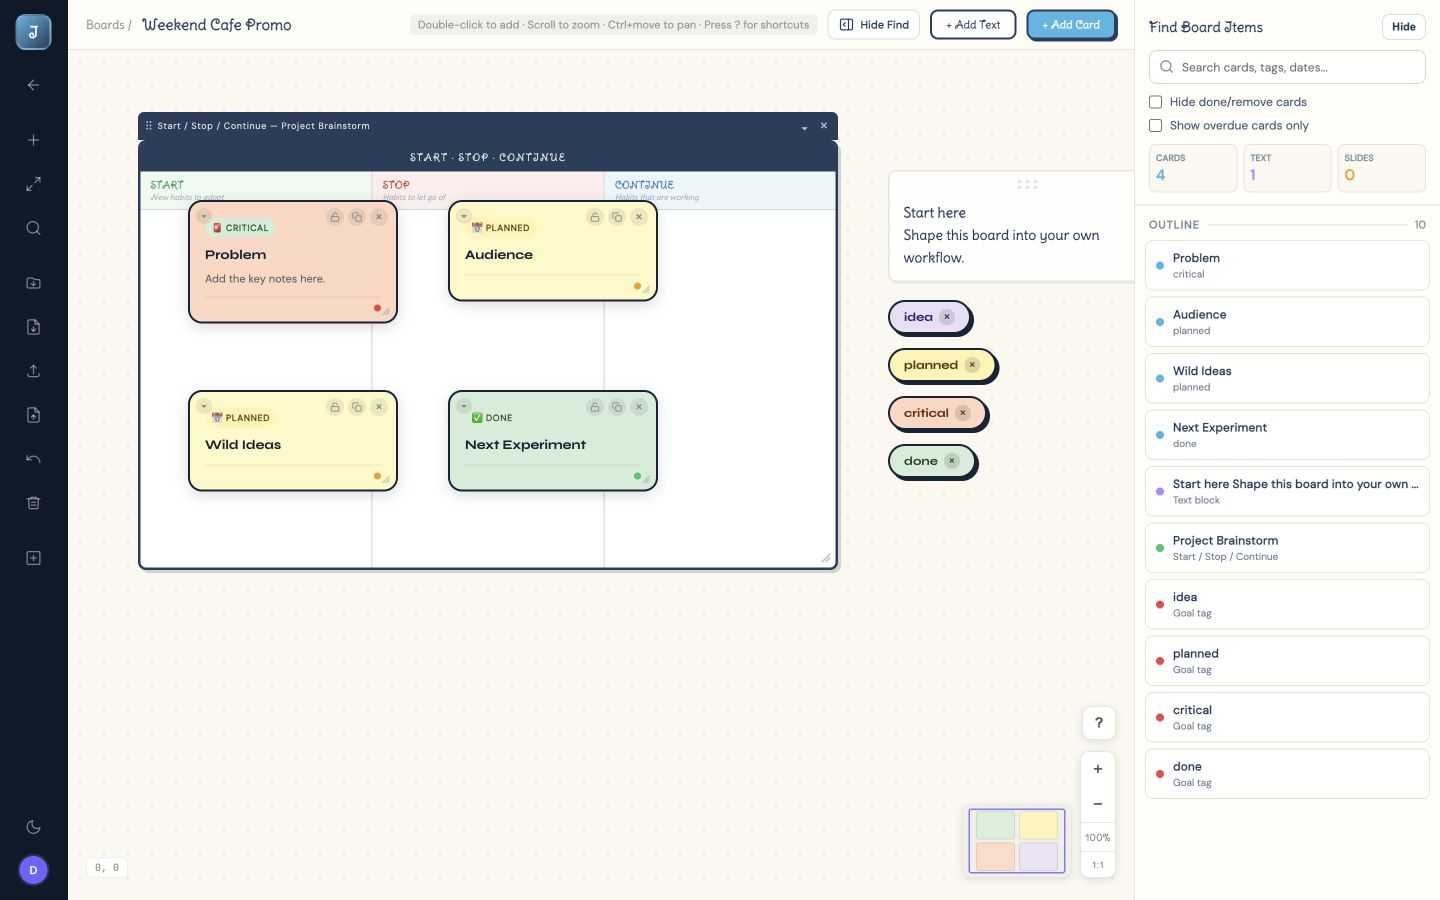
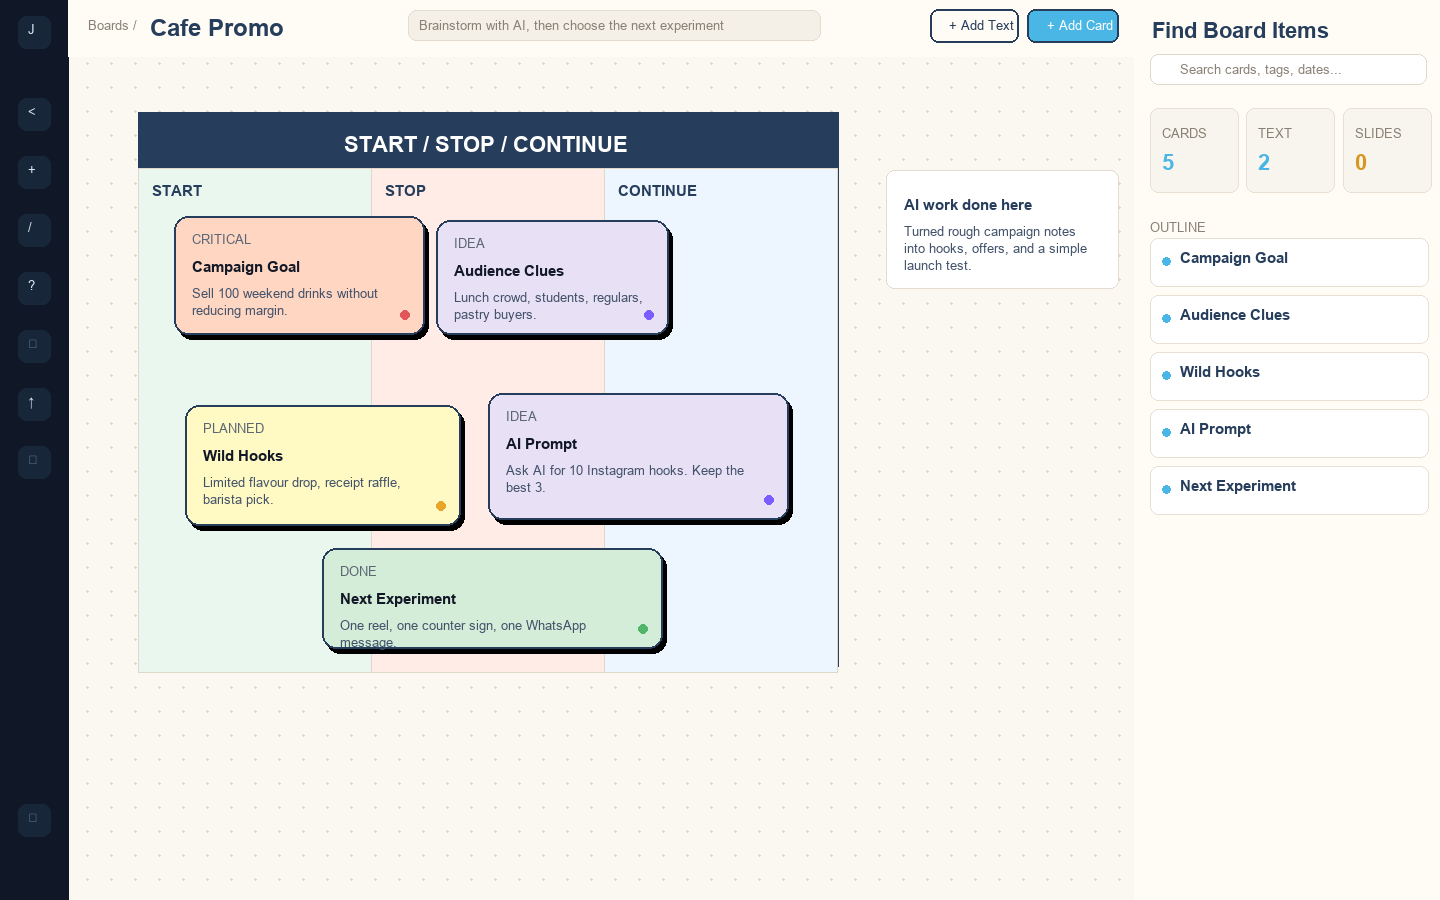
Improve README board examples

diff --git a/src/lib/boardTemplates.ts b/src/lib/boardTemplates.ts
@@ -36,7 +36,15 @@ const tagBase = [
   ['done', '#D4EDD8', '#1B4D21'],
 ] as const
 
-function card(boardId: string, title: string, body: string, tag: CardInsert['tag'], x: number, y: number): CardInsert {
+function card(
+  boardId: string,
+  title: string,
+  body: string,
+  tag: CardInsert['tag'],
+  x: number,
+  y: number,
+  width = 210,
+): CardInsert {
   return {
     board_id: boardId,
     title,
@@ -48,7 +56,7 @@ function card(boardId: string, title: string, body: string, tag: CardInsert['tag
     x,
     y,
     rotation: 0,
-    card_width: 210,
+    card_width: width,
     card_height: null,
     collapsed: false,
     locked: false,
@@ -61,43 +69,66 @@ export function buildBoardTemplatePayload({
   now = new Date().toISOString(),
   createId = () => crypto.randomUUID(),
 }: BuildBoardTemplatePayloadInput): BoardTemplatePayload {
-  const names: Record<BoardTemplateId, string[]> = {
-    'weekly-plan': ['Top Priority', 'Must Do', 'Waiting On', 'Friday Review'],
-    'project-brainstorm': ['Problem', 'Audience', 'Wild Ideas', 'Next Experiment'],
-    'content-calendar': ['Post Idea', 'Draft', 'Review', 'Publish'],
-    'decision-matrix': ['Option A', 'Option B', 'Risks', 'Decision'],
-  }
   const frameType: Record<BoardTemplateId, FrameInstance['type']> = {
     'weekly-plan': 'personal-kanban',
     'project-brainstorm': 'start-stop-continue',
     'content-calendar': 'personal-kanban',
-    'decision-matrix': 'eisenhower',
+    'decision-matrix': 'impact-effort',
   }
-  const labels = names[templateId]
-  const cards = labels.map((title, i) => card(
-    boardId,
-    title,
-    i === 0 ? 'Add the key notes here.' : '',
-    i === 0 ? 'critical' : i === 3 ? 'done' : 'planned',
-    120 + (i % 2) * 260,
-    150 + Math.floor(i / 2) * 190,
-  ))
+
+  const cardsByTemplate: Record<BoardTemplateId, CardInsert[]> = {
+    'weekly-plan': [
+      card(boardId, 'Top Priority', 'What must be true by Friday?', 'critical', 120, 150, 230),
+      card(boardId, 'Must Do', 'Client reply, prototype polish, invoice follow-up.', 'planned', 390, 150, 240),
+      card(boardId, 'Waiting On', 'Feedback, source file, meeting confirmation.', 'planned', 390, 345, 240),
+      card(boardId, 'Friday Review', 'Wins, loose ends, next week focus.', 'done', 660, 345, 230),
+    ],
+    'project-brainstorm': [
+      card(boardId, 'Campaign Goal', 'Sell 100 weekend drinks without discounting the hero product.', 'critical', 115, 145, 250),
+      card(boardId, 'Audience Clues', 'Office lunch crowd, students, regulars who order pastries.', 'idea', 420, 135, 240),
+      card(boardId, 'Wild Hooks', 'Limited flavour drop, receipt raffle, barista pick of the day.', 'planned', 190, 335, 260),
+      card(boardId, 'AI Prompt', 'Ask AI for 10 Instagram hooks, then keep only the strongest 3.', 'idea', 515, 330, 270),
+      card(boardId, 'Next Experiment', 'Launch one reel, one counter sign, and one WhatsApp message.', 'done', 325, 505, 310),
+    ],
+    'content-calendar': [
+      card(boardId, 'Mon: Short Reel', 'Hook: 3 mistakes people make when planning a launch.', 'critical', 115, 145, 240),
+      card(boardId, 'Wed: Carousel Draft', 'Turn AI outline into 6 slides and add examples.', 'planned', 390, 145, 250),
+      card(boardId, 'Fri: Newsletter', 'Use board notes as the first draft, then tighten CTA.', 'planned', 665, 145, 250),
+      card(boardId, 'Review Queue', 'Check claims, screenshots, and tone before publishing.', 'idea', 390, 350, 250),
+      card(boardId, 'Published Assets', 'Move completed posts here with date and link.', 'done', 665, 455, 250),
+    ],
+    'decision-matrix': [
+      card(boardId, 'AI Research Summary', 'Fast to ship, high leverage. Needs source checking.', 'critical', 150, 160, 255),
+      card(boardId, 'PDF Import Polish', 'Useful for real workflows, but touches storage and rendering.', 'planned', 500, 170, 265),
+      card(boardId, 'Team Sharing', 'High value later; needs auth, sync, and conflict handling.', 'idea', 500, 405, 265),
+      card(boardId, 'Theme Tweaks', 'Low effort, nice quality-of-life improvement.', 'done', 150, 430, 255),
+      card(boardId, 'Decision', 'Ship AI research workflow first; schedule PDF polish next.', 'planned', 835, 260, 280),
+    ],
+  }
+
+  const cards = cardsByTemplate[templateId]
   const frames: FrameInstance[] = [{
     id: createId(),
     type: frameType[templateId],
     name: BOARD_TEMPLATES.find(t => t.id === templateId)?.name,
-    x: 70,
+    x: templateId === 'decision-matrix' ? 90 : 70,
     y: 90,
-    width: 700,
-    height: 430,
+    width: templateId === 'decision-matrix' ? 760 : templateId === 'content-calendar' ? 900 : 700,
+    height: templateId === 'project-brainstorm' ? 560 : 470,
   }]
   const textBlocks: TextBlock[] = [{
     id: createId(),
     board_id: boardId,
-    html: '<b>Start here</b><br>Shape this board into your own workflow.',
-    x: 820,
+    html: templateId === 'project-brainstorm'
+      ? '<b>AI work example</b><br>Paste AI suggestions here, then drag the useful ones into Start / Stop / Continue.'
+      : templateId === 'content-calendar'
+        ? '<b>Publishing rhythm</b><br>Use AI for first drafts, then keep review and publish decisions visible.'
+        : templateId === 'decision-matrix'
+          ? '<b>Decision rule</b><br>Score each option by impact, effort, confidence, and risk before choosing.'
+          : '<b>Start here</b><br>Shape this board into your own workflow.',
+    x: templateId === 'decision-matrix' ? 920 : 820,
     y: 120,
-    width: 280,
+    width: templateId === 'decision-matrix' ? 300 : 280,
     created_at: now,
   }]
   const goalTags: GoalTag[] = tagBase.map(([label, bg, color], i) => ({

diff --git a/README.md b/README.md
@@ -8,7 +8,7 @@ It runs on your computer and opens in your browser. It is not an Apple App Store
 
 ## Real App Screenshots
 
-These screenshots show the actual local app running with sample boards and template content.
+These screenshots show sample boards with different layouts, so each example demonstrates a different way to use Ideaboard.
 
 ### Board Dashboard
 
@@ -18,21 +18,50 @@ The home screen keeps boards together in a simple visual dashboard. Each board c
 
 ### Project Brainstorm Board
 
-This example uses a Start / Stop / Continue framework for a small business campaign. Users can keep idea cards, goal tags, and notes on the same canvas while using the right panel to search or jump between items.
+This example uses a Start / Stop / Continue framework for a cafe promotion. It shows messy campaign thinking: goals, audience clues, wild hooks, an AI prompt, and the next experiment all living on the same board.
 
 ![Ideaboard project brainstorm board](marketing/screenshots/campaign-board.png)
 
 ### Content Calendar Board
 
-This example shows a creator workflow using a Kanban-style board. Cards move from backlog to in progress to done, making it useful for planning videos, posts, scripts, and publishing tasks.
+This example shows a creator workflow using a calendar-style board. Cards are arranged by publishing day and review stage, making it useful for planning videos, posts, scripts, newsletters, and repurposed content.
 
 ![Ideaboard content calendar board](marketing/screenshots/content-calendar-board.png)
 
 ### Decision Matrix Board
 
-This example shows a roadmap or product planning workflow. A decision matrix helps compare options, risks, and next actions in a visual structure.
+This example shows a product planning workflow. An impact / effort matrix helps compare feature ideas, risks, and next actions before deciding what to build first.
 
 ![Ideaboard decision matrix board](marketing/screenshots/roadmap-board.png)
+
+## Example: AI Work Done With Ideaboard
+
+Ideaboard is useful when AI gives you a lot of output and you need to turn it into a plan.
+
+Example workflow:
+
+1. Ask AI to generate raw ideas, research summaries, campaign hooks, lesson activities, or product options.
+2. Paste the best AI output into Ideaboard as cards or text blocks.
+3. Group the cards by theme, stage, priority, or decision criteria.
+4. Move weak ideas aside and keep useful ideas near the framework.
+5. Turn the final board into a checklist, content calendar, lesson plan, sprint plan, or client workshop outline.
+
+Example board:
+
+```text
+Board name: AI Research Sprint
+
+Cards:
+- AI summary of customer pain points
+- Useful quotes from source PDFs
+- Repeated objections
+- Feature ideas suggested by AI
+- Risks and claims to verify
+- Final recommendation
+
+Result:
+The AI output becomes a visual decision board instead of a long chat transcript.
+```
 
 ## What You Can Do With Ideaboard
 
